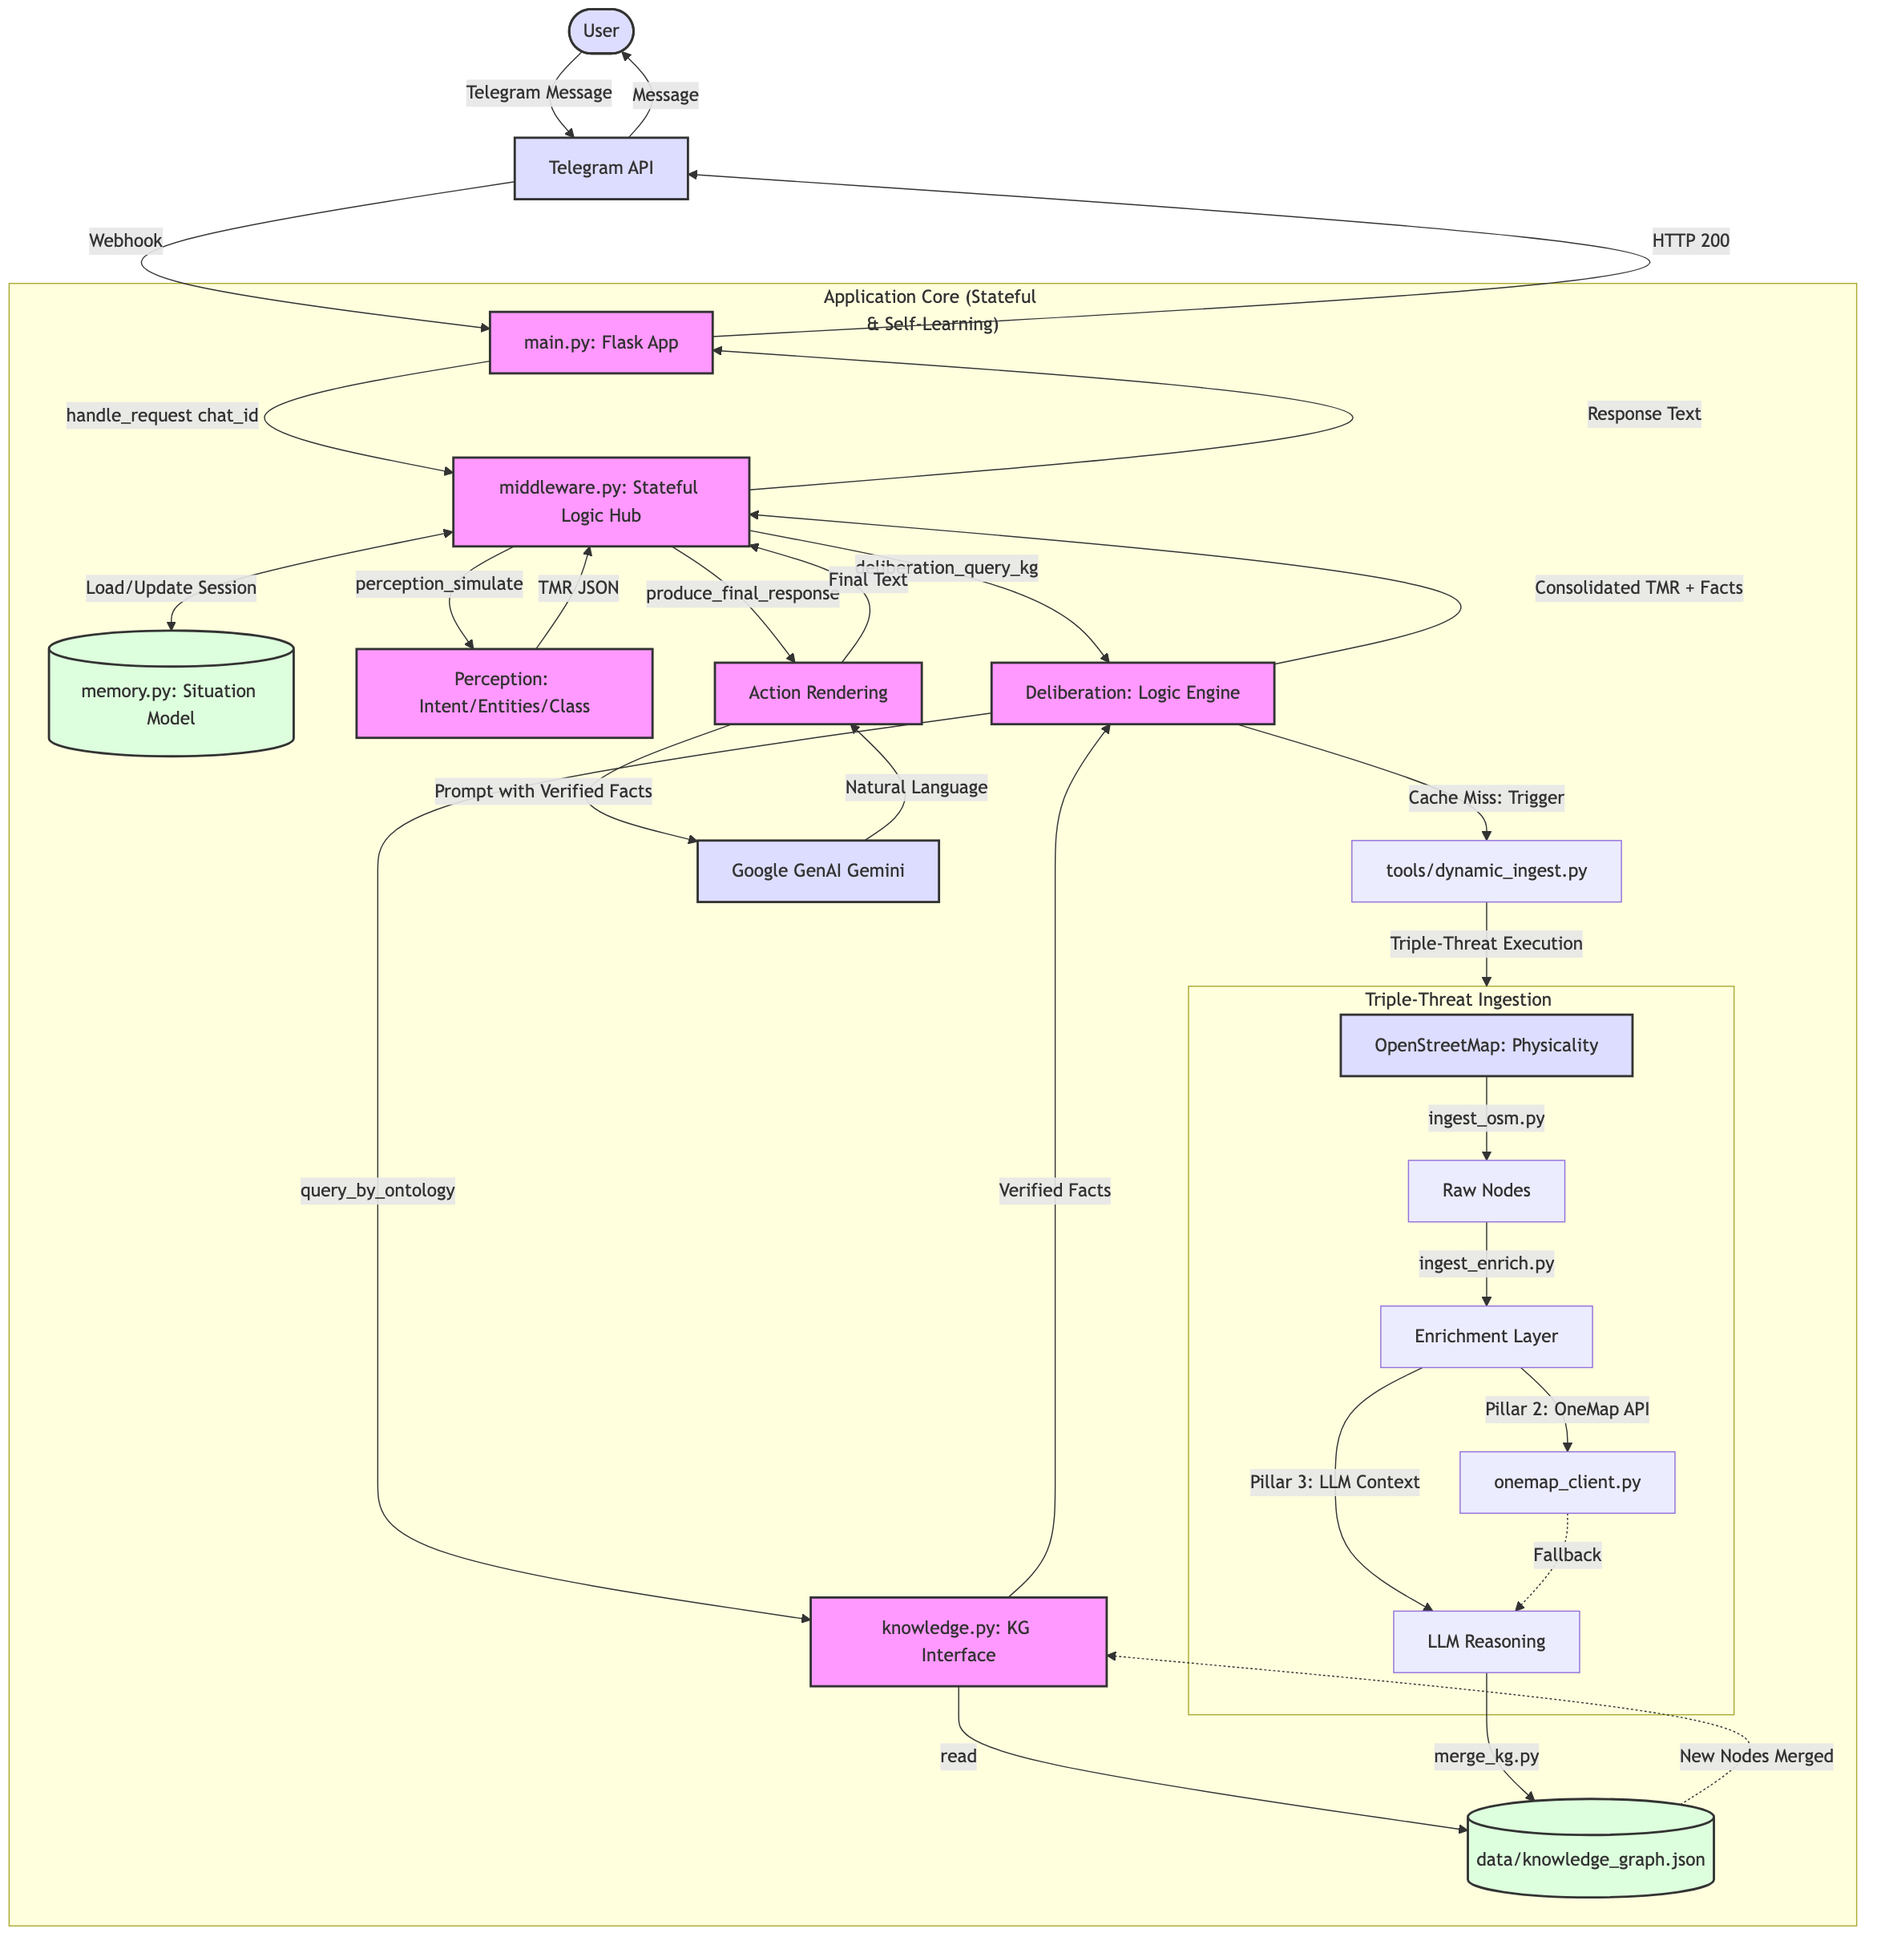
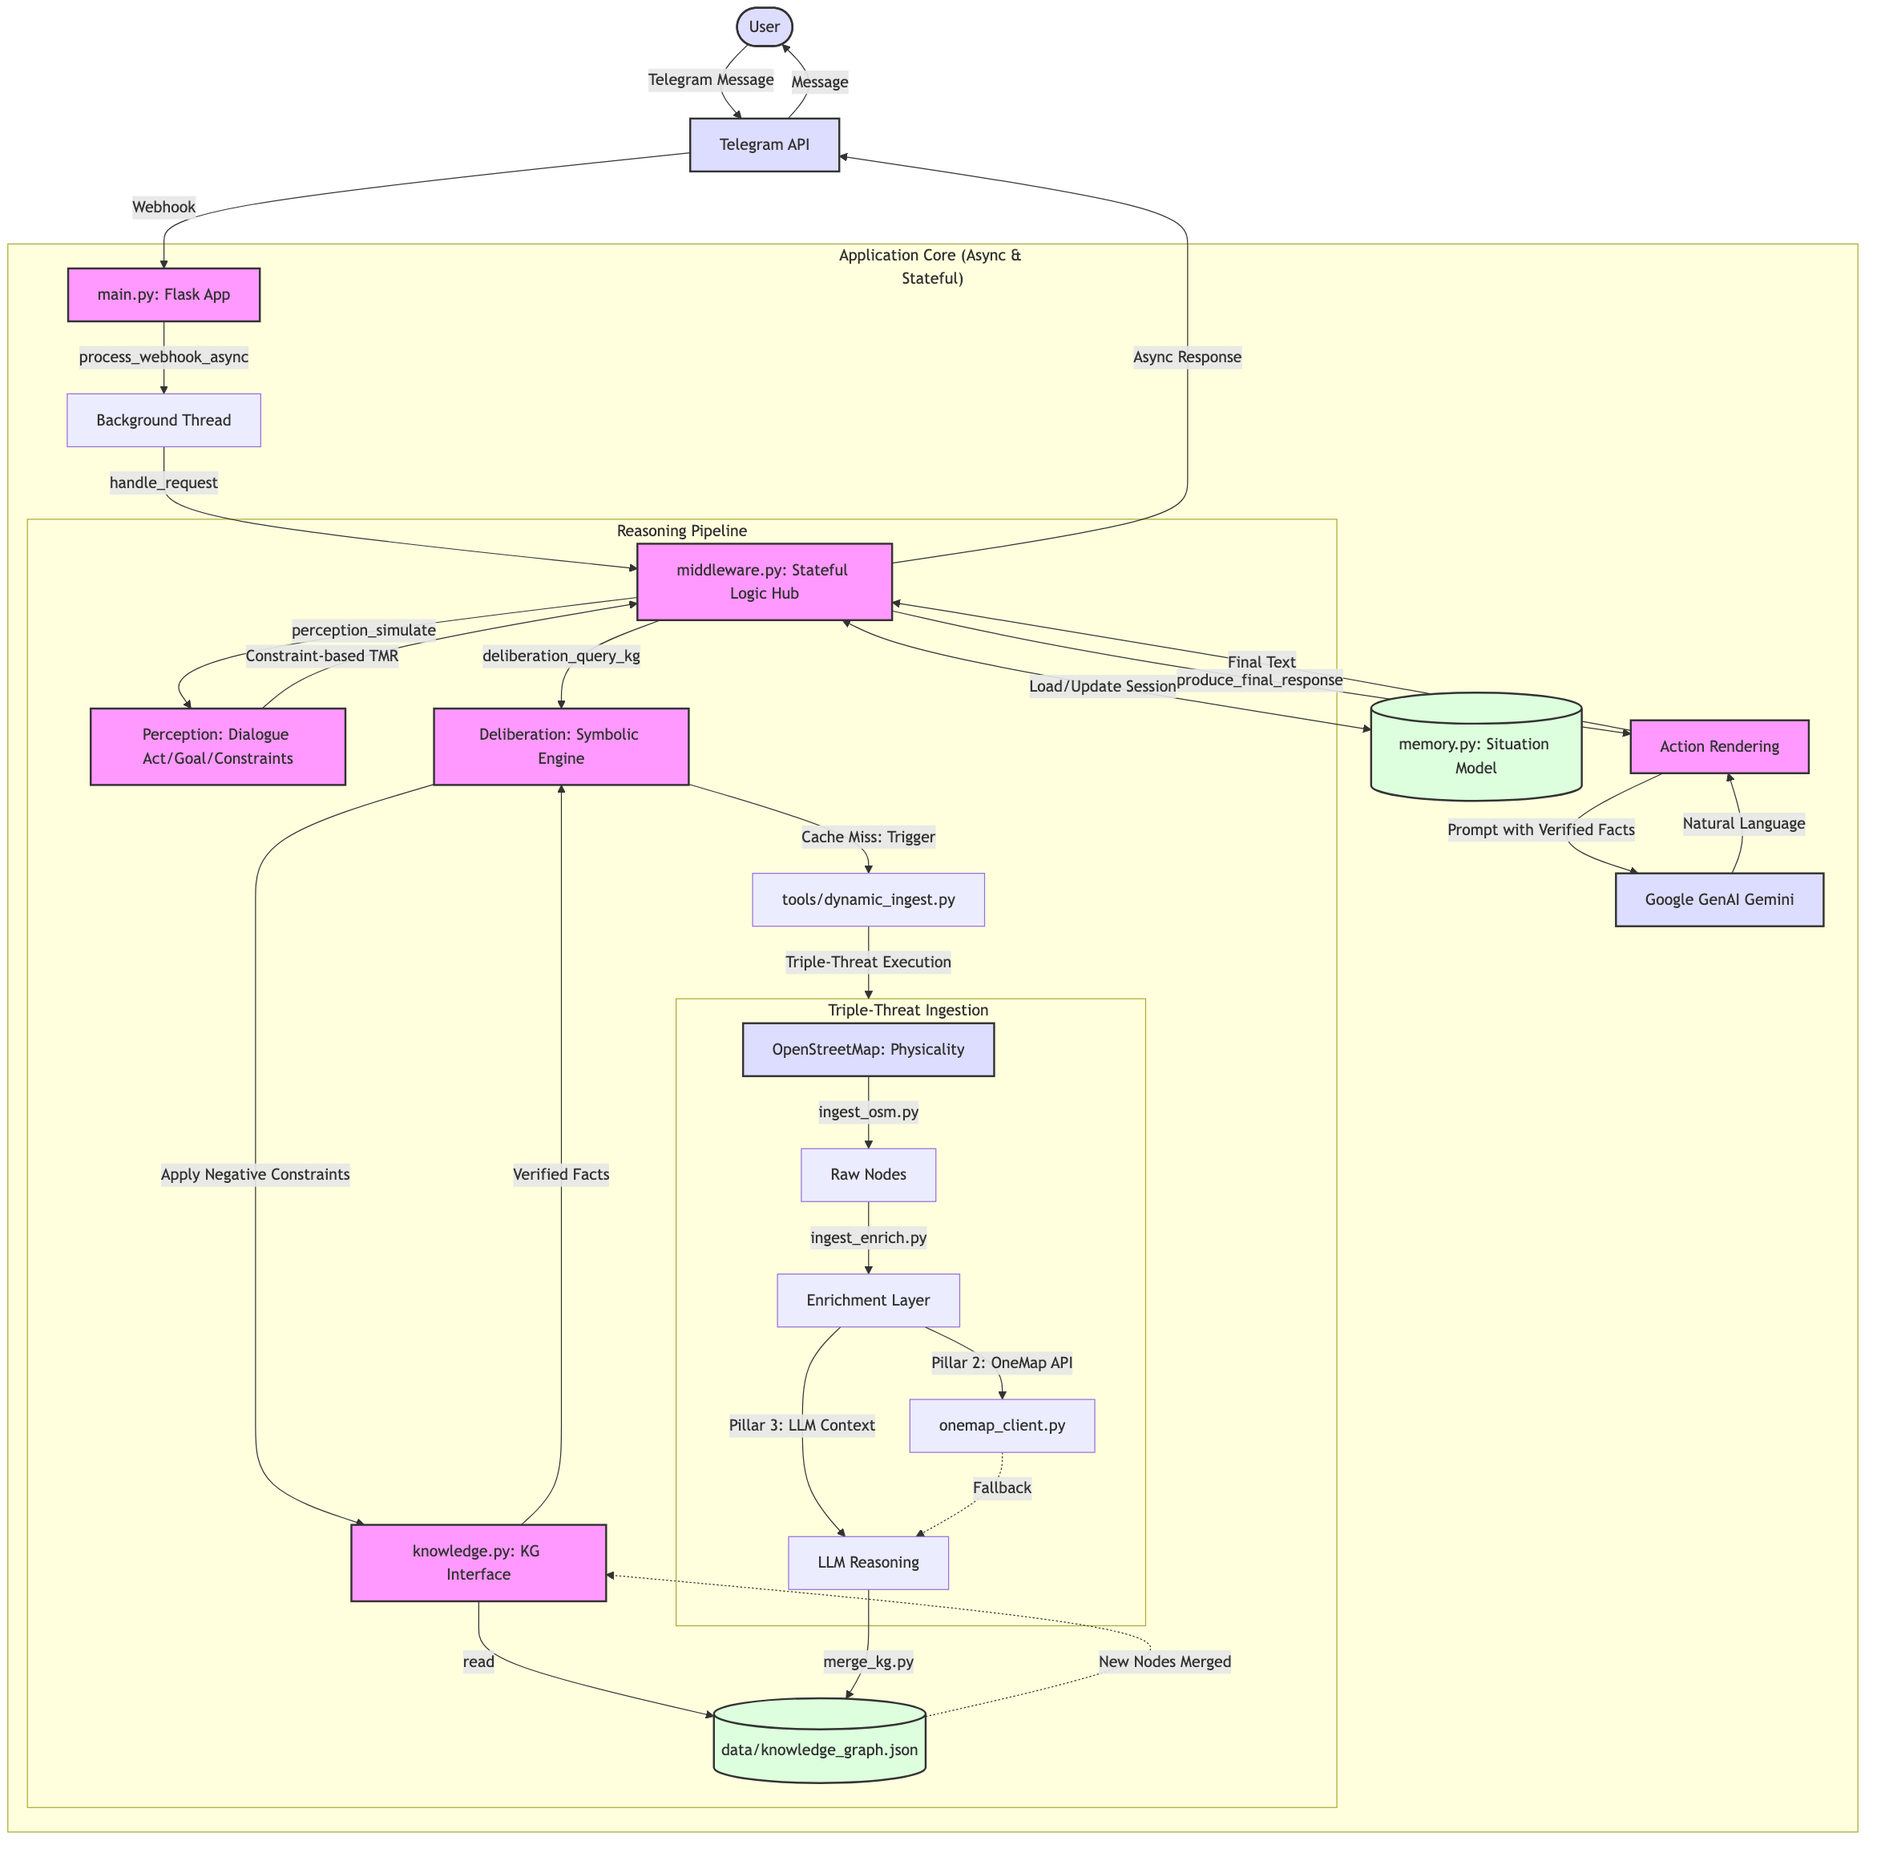
Comprehensive Upgrade: Implement Async Webhook, Negative Constraints, and Self-Learning Knowledge Graph

diff --git a/tools/dynamic_ingest.py b/tools/dynamic_ingest.py
@@ -24,21 +24,26 @@ DISTRICT_COORDS = {
     "Ang Mo Kio": (1.3691, 103.8454),
     "Bedok": (1.3236, 103.9273),
     "Bugis": (1.3007, 103.8560),
+    "Marina Bay": (1.2823, 103.8585),
+    "Orchard": (1.3048, 103.8318),
+    "Sentosa": (1.2494, 103.8303),
 }
 
-def fetch_osm_by_radius(lat: float, lon: float, radius: int = 500, limit: int = 10):
+def fetch_osm_by_radius(lat: float, lon: float, radius: int = 800, limit: int = 10):
     """Fallback search using coordinates and radius."""
     url = "https://overpass-api.de/api/interpreter"
     query = f"""
-    [out:json][timeout:25];
+    [out:json][timeout:30];
     (
       node["amenity"~"restaurant|cafe"](around:{radius},{lat},{lon});
+      node["tourism"~"attraction|museum|theme_park"](around:{radius},{lat},{lon});
       way["amenity"~"restaurant|cafe"](around:{radius},{lat},{lon});
+      way["tourism"~"attraction|museum|theme_park"](around:{radius},{lat},{lon});
     );
     out center {limit};
     """
     try:
-        resp = requests.post(url, data={'data': query})
+        resp = requests.post(url, data={'data': query}, timeout=45)
         resp.raise_for_status()
         return resp.json().get("elements", [])
     except Exception as e:
@@ -53,14 +58,17 @@ def run_dynamic_ingestion(location: str, target_class: str = "Restaurant") -> in
     logging.info(f"--- Triggering Dynamic Ingestion for: {location} ({target_class}) ---")
     
     # 1. Physicality (OSM)
-    search_area = f"{location}, Singapore" if "Singapore" not in location else location
-    raw_osm = fetch_osm_tourism_data(area_name=search_area, limit=10)
-    
-    # Fallback to radius search if area name fails
-    if not raw_osm and location in DISTRICT_COORDS:
+    raw_osm = []
+    # Check if it's a known district first for faster radius search
+    if location in DISTRICT_COORDS:
         lat, lon = DISTRICT_COORDS[location]
-        logging.info(f"Area search failed. Retrying with 1000m radius around {lat},{lon}")
-        raw_osm = fetch_osm_by_radius(lat, lon, radius=1000, limit=10)
+        logging.info(f"Known district {location}. Using 800m radius search.")
+        raw_osm = fetch_osm_by_radius(lat, lon, radius=800, limit=10)
+    
+    # If not known or radius failed, try area name with a strict timeout
+    if not raw_osm:
+        search_area = f"{location}, Singapore" if "Singapore" not in location else location
+        raw_osm = fetch_osm_tourism_data(area_name=search_area, limit=10, retries=1)
 
     if not raw_osm:
         logging.warning(f"No real-time data found in OSM for {location}")
@@ -70,10 +78,10 @@ def run_dynamic_ingestion(location: str, target_class: str = "Restaurant") -> in
     kg_nodes = map_osm_to_kg(raw_osm)
     
     # 3. Enrichment (OneMap + LLM Cultural Context)
-    # We only enrich the top 3 to keep response times reasonable for a chat session
+    # We only enrich the top 3 to keep response times reasonable
     enriched = enrich_nodes(kg_nodes[:3])
     
-    # Update locatedIn to the specific district if we used coordinates
+    # Ensure district is set correctly if we used coordinate fallback
     for n in enriched:
         if n["properties"].get("locatedIn") == "Singapore":
              n["properties"]["locatedIn"] = location
@@ -104,7 +112,6 @@ def run_dynamic_ingestion(location: str, target_class: str = "Restaurant") -> in
             os.remove(temp_file)
 
 if __name__ == "__main__":
-    # Test run
     logging.basicConfig(level=logging.INFO)
-    added = run_dynamic_ingestion("Tiong Bahru", "Restaurant")
+    added = run_dynamic_ingestion("Bugis", "Attraction")
     print(f"Dynamic ingestion added {added} nodes.")

diff --git a/README.md b/README.md
@@ -5,19 +5,20 @@ A stateful, self-learning, ontology-driven Telegram bot deployed on Google Cloud
 ## 🧠 Cognitive Architecture
 ![AI Architecture](./architecture.png)
 
-The agent follows a multi-stage stateful pipeline:
-1.  **Perception**: Extracts a Text Meaning Representation (TMR) including intent, ontology classes, and entities.
-2.  **Memory (Situation Model)**: Persists and accumulates user state across turns (keyed by `chat_id`).
-3.  **Symbolic Deliberation**: Performs ontology-driven queries against the Knowledge Graph.
-4.  **Dynamic Hydro-Fill**: If the KG lacks information for a requested area, the bot automatically triggers the ingestion pipeline to fetch real-time data.
-5.  **Action Rendering**: Uses Gemini to translate verified facts into fluent, professional natural language.
+The agent follows a multi-stage **asynchronous** pipeline:
+1.  **Async Webhook**: Immediately acknowledges Telegram messages and hands off processing to a background thread to prevent timeouts.
+2.  **Perception**: Extracts a rich TMR including **Dialogue Acts** (e.g., Request, Correction) and **Negative Constraints** (e.g., "NOT in Orchard").
+3.  **Memory (Situation Model)**: Persists and accumulates user state across turns, allowing for intelligent class transitions and entity persistence.
+4.  **Symbolic Deliberation**: Performs ontology-driven queries while respecting complex constraints (Must/Not).
+5.  **Dynamic Hydro-Fill**: Automatically triggers the ingestion pipeline on KG cache misses to fetch real-time data from OSM/OneMap.
+6.  **Action Rendering**: Uses Gemini to translate verified facts into polished natural language.
 
 ## 🛠 Triple-Threat Ingestion Pipeline
-The Knowledge Graph is populated and updated via a specialized pipeline:
-- **Physicality (OSM)**: Real-time node fetching from OpenStreetMap (`ingest_osm.py`). Supports area-name and coordinate-radius fallbacks.
-- **Geo-Hierarchy (OneMap API)**: Official resolution of raw coordinates into Planning Areas via `onemap_client.py`.
-- **Enrichment & Fallback (LLM)**: Distillation of cultural context and fallback reasoning if API tokens expire.
-- **Merge Engine**: Safe integration of new nodes into the master graph (`merge_kg.py`).
+The Knowledge Graph is updated via a specialized pipeline:
+- **Physicality (OSM)**: Real-time node fetching via area name or coordinate-based radius fallback.
+- **Geo-Hierarchy (OneMap API)**: Official resolution of coordinates into Singapore Planning Areas.
+- **Enrichment (LLM)**: Distillation of cultural/historical context for every node.
+- **Merge Engine**: Safe integration of new nodes into the master `knowledge_graph.json`.
 
 ## 🚀 Setup & Deployment
 Environment variables:
